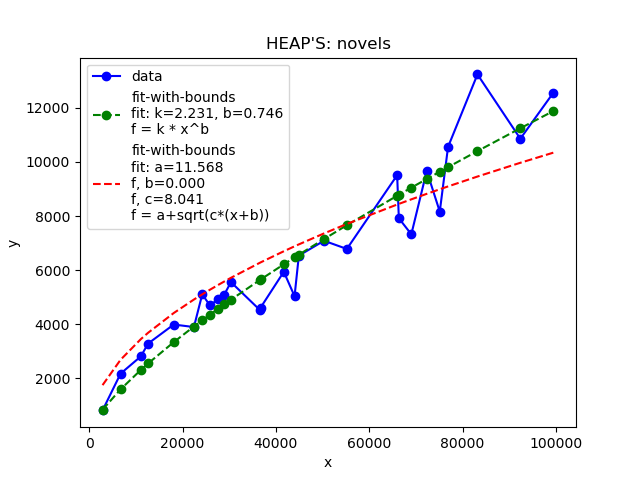
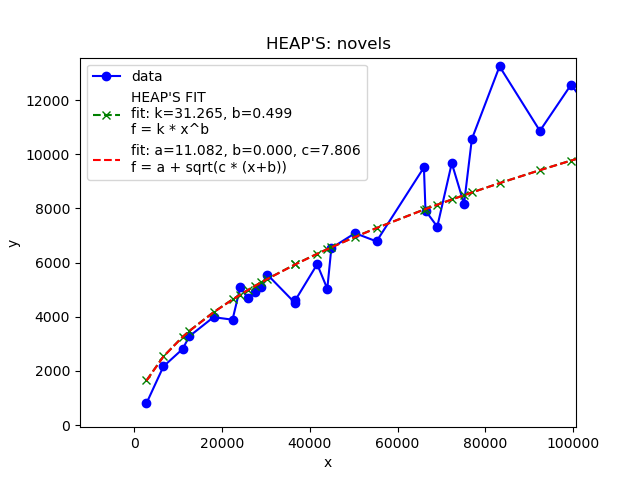
heaps fits have been re-run

diff --git a/CAIM-1/plot_elastic_search_laws.py b/CAIM-1/plot_elastic_search_laws.py
@@ -122,24 +122,15 @@ def heaps_checker(file_basic: str, num_of_files: int, index_and_count: bool = Fa
 
         data[total_words] = distinct_words
 
-    if zoomed:
-        x = sorted(data)
-
-        median = x[len(x)//2]
-
-        xdata = []
-
-        for i in x:
-            if i < median*2:
-                xdata.append(i)
-
-    else:
-        xdata = sorted(data)
+    xdata = sorted(data)
 
     ydata = []
 
     for x in xdata:
         ydata.append(data[x])
+
+    xmedian = xdata[len(xdata) // 2]
+    ymedian = sorted(ydata)[len(ydata) // 2]
 
     xdata = np.array(xdata)
     ydata = np.array(ydata)
@@ -149,7 +140,7 @@ def heaps_checker(file_basic: str, num_of_files: int, index_and_count: bool = Fa
 
     # FIT HEAPS
     popt, pcov = curve_fit(func_heap, xdata, ydata)
-    plt.plot(xdata, func_heap(xdata, *popt), 'go--', label='HEAP\'S FIT\nfit: k=%5.3f, b=%5.3f\nf = k * x^b' % tuple(popt))
+    plt.plot(xdata, func_heap(xdata, *popt), 'gx--', label='HEAP\'S FIT\nfit: k=%5.3f, b=%5.3f\nf = k * x^b' % tuple(popt))
 
     # FIT SQRT
     popt, pcov = curve_fit(sq_root, xdata, ydata, bounds=(0, [np.inf, np.inf, np.inf]))
@@ -161,12 +152,15 @@ def heaps_checker(file_basic: str, num_of_files: int, index_and_count: bool = Fa
     plt.xlabel('x')
     plt.ylabel('y')
     # plt.yscale('log')
+    if zoomed:
+        plt.xlim(right=xmedian*2)
+        plt.ylim(top=ymedian*2)
     plt.legend()
     plt.title("HEAP'S: {0}".format(file_basic))
     plt.savefig("heaps_{0}{1}.png".format(file_basic, "_zoomed"*zoomed))
 
 
-a = zipf_checker(files=files_zipf)
+# a = zipf_checker(files=files_zipf)
 
 b = heaps_checker(file_basic='novels', num_of_files=32, zoomed=False)
 
